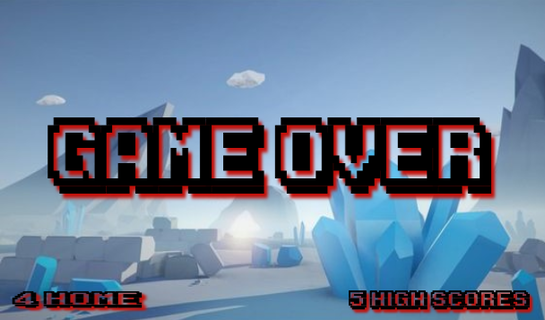
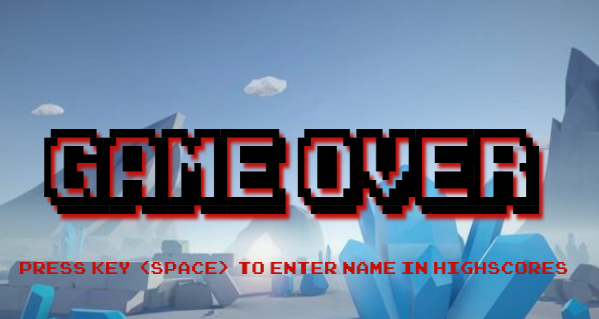
imagen pantalla story cambiada

diff --git a/src/gameRender.js b/src/gameRender.js
@@ -83,9 +83,9 @@ function renderHistory()
     globals.ctx.drawImage(
         globals.tileSets[5],
     
-        0, 0,                   //The source x and y position
+        10, 0,                   //The source x and y position
         534, 320,               //The source height and width
-        0, 0,                   //The destination x and y position
+        10, 0,                   //The destination x and y position
         534, 320,             //The destination height and width
     );                 
 }
@@ -97,9 +97,9 @@ function renderLoading()
     globals.ctx.drawImage(
         globals.tileSets[7],
     
-        0, 0,                   //The source x and y position
+        30, 0,                   //The source x and y position
         534, 320,               //The source height and width
-        0, 0,                   //The destination x and y position
+        30, 0,                   //The destination x and y position
         534, 320,             //The destination height and width
     );                 
 }
@@ -107,7 +107,7 @@ function renderLoading()
 function renderBarra()
 {
     globals.ctx.fillStyle = "blue";
-    globals.ctx.fillRect(38, 240, globals.assetsLoaded * (470/globals.assetsToLoad.length), 32);
+    globals.ctx.fillRect(44, 240, globals.assetsLoaded * (470/globals.assetsToLoad.length), 32);
 
     if(globals.assetsLoaded * (470/globals.assetsToLoad.length) === 470)
     {
@@ -137,9 +137,6 @@ function renderGameOver()
         0, 0,                   //The destination x and y position
         534, 320,             //The destination height and width
     );  
-    globals.ctx.font         = '10px emulogic';
-    globals.ctx.fillStyle    = 'red';  
-    globals.ctx.fillText("PRESS KEY  <SPACE>  TO ENTER NAME IN HIGHSCORES", 35, 250);
 }
 
 function renderPlayerName() 
